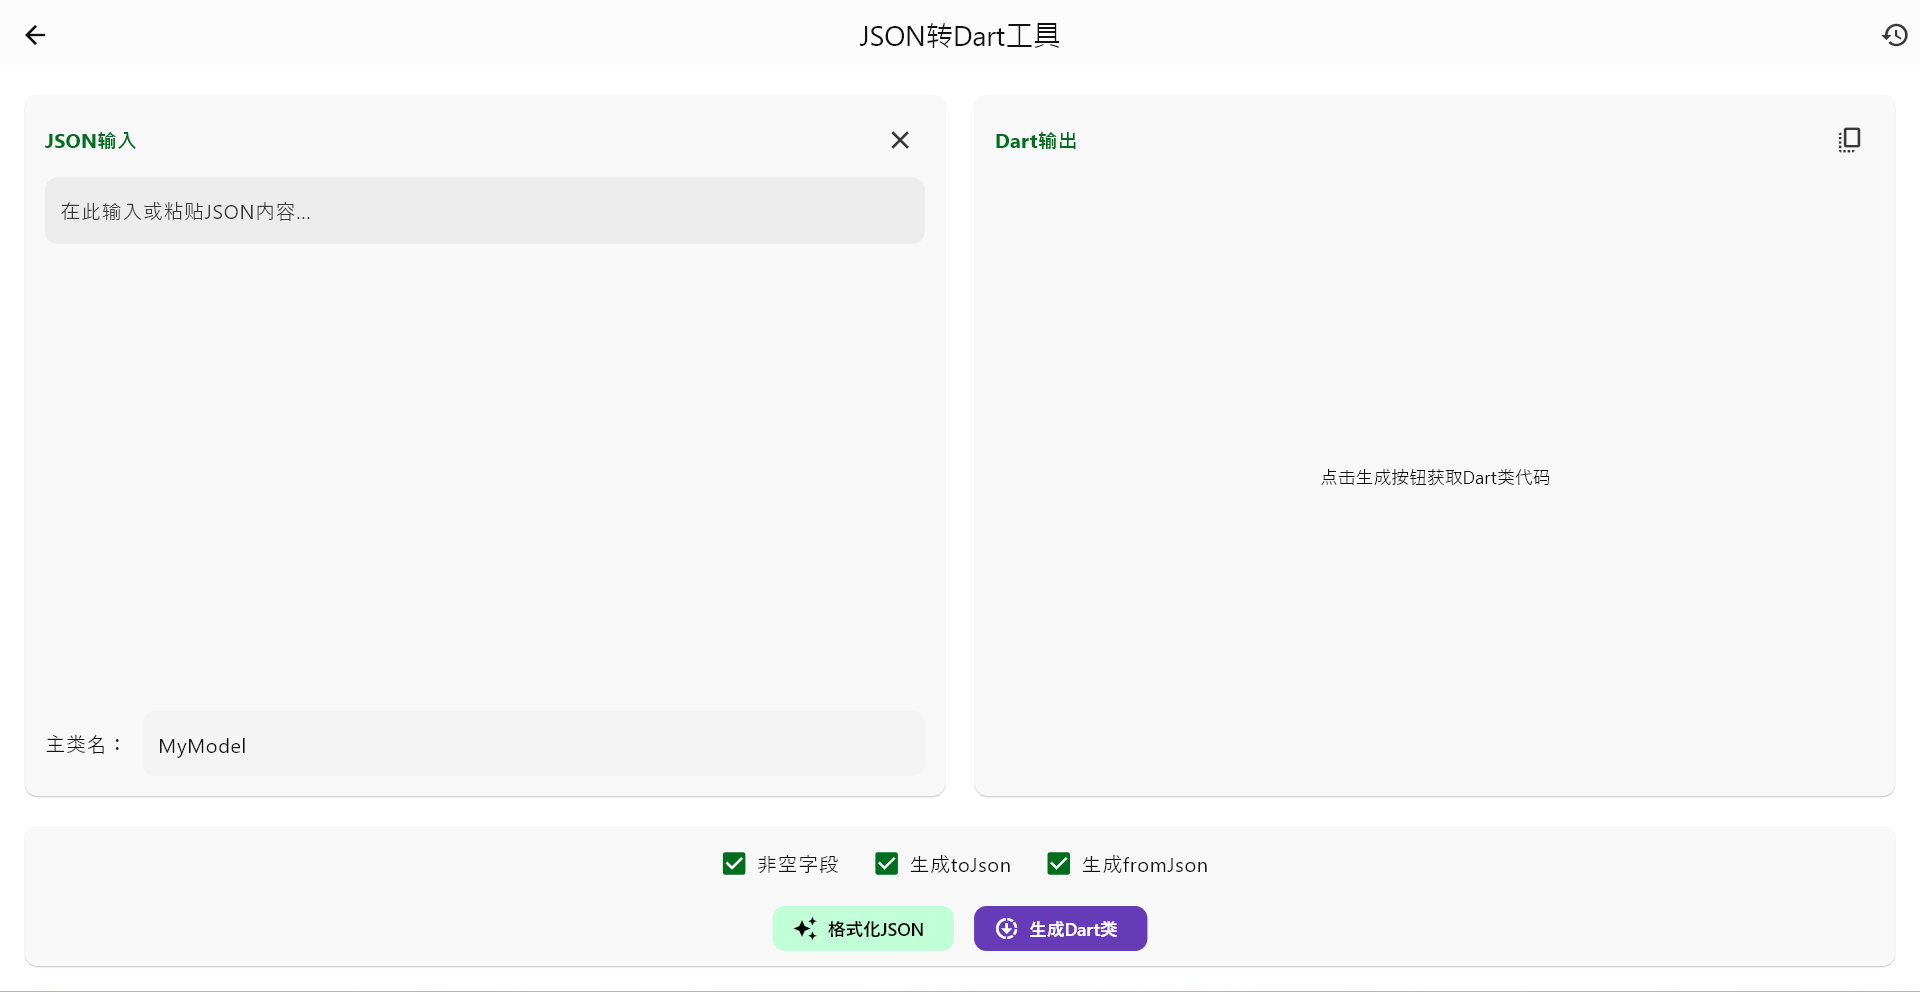
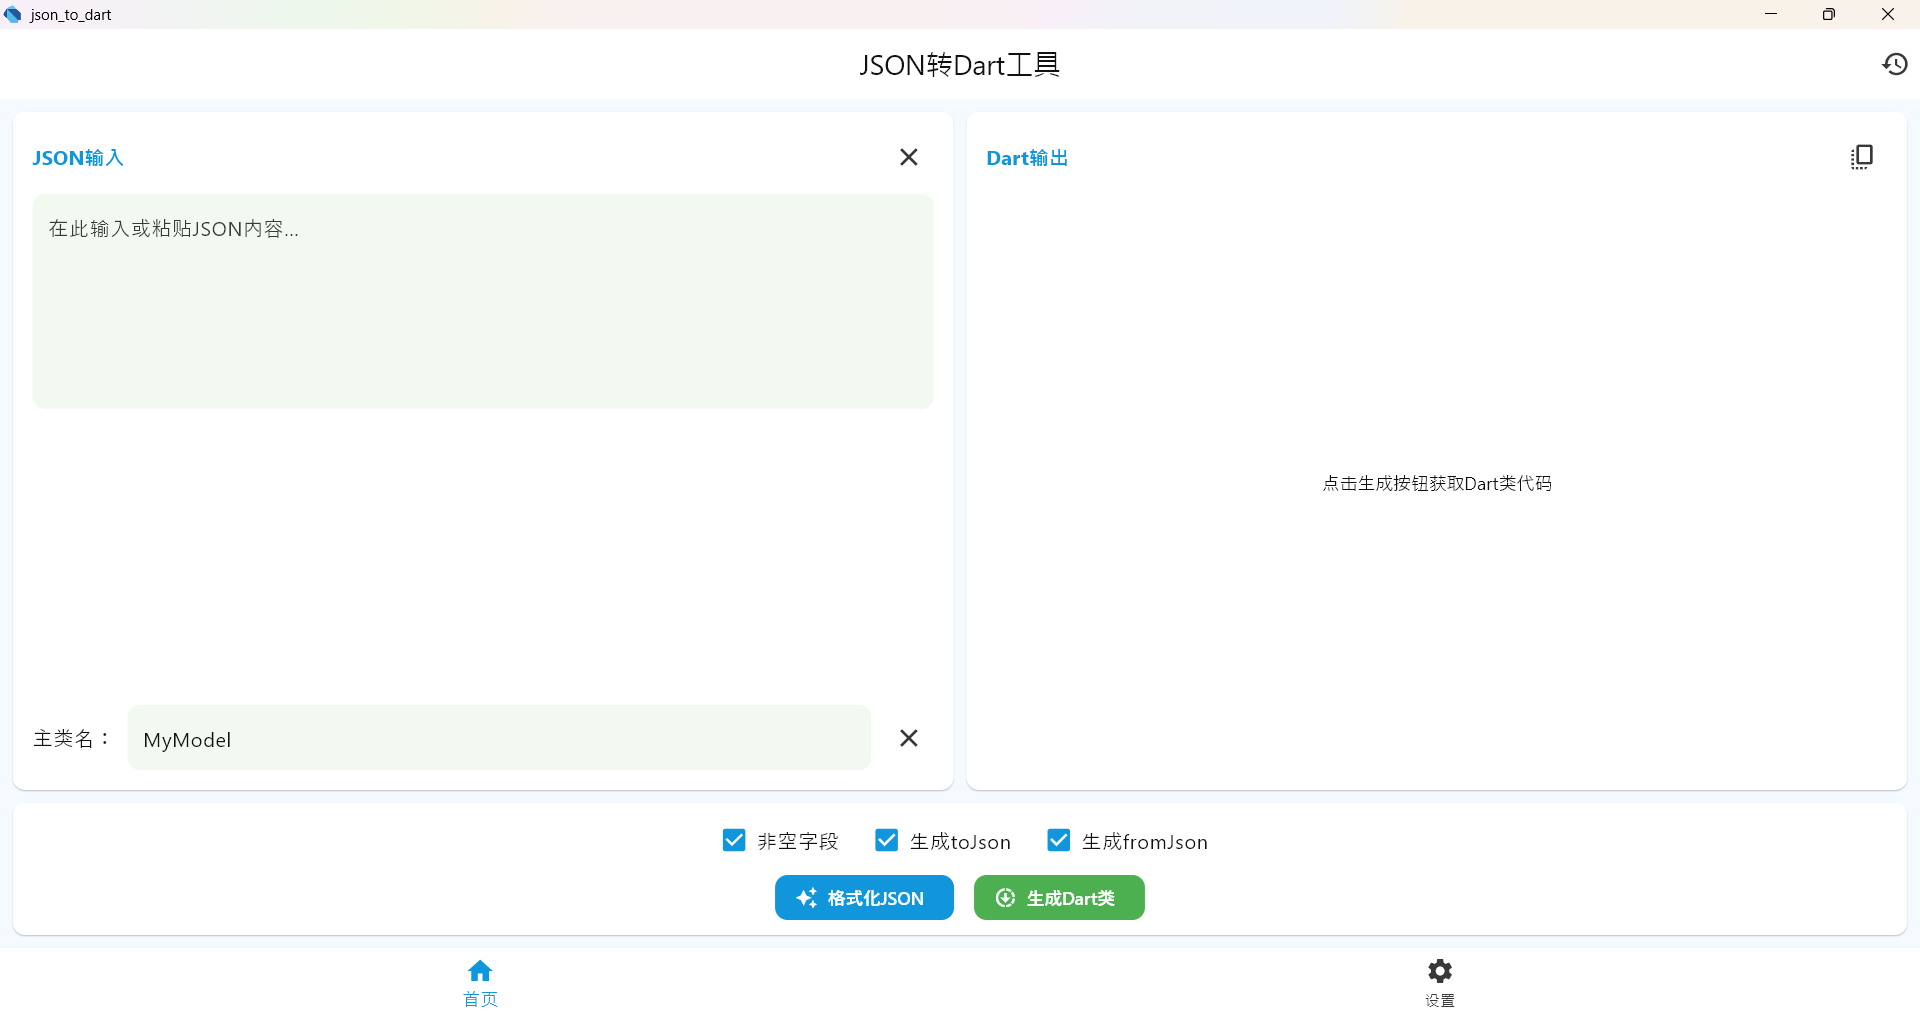
优化处理

diff --git a/lib/common/json/logic/json_to_dart_logic.dart b/lib/common/json/logic/json_to_dart_logic.dart
@@ -21,15 +21,10 @@ class JsonToDartLogic extends GetxController {
   RxBool generateFromJson = true.obs;
 
   RxString dartCode = ''.obs;
-  RxString errorMessage = ''.obs;
-
-  // 布局状态
-  final showHistoryPanel = true.obs;
-  final inputPanelRatio = 5.obs;
-  final outputPanelRatio = 5.obs;
 
   // 历史记录
   final history = <HistoryItem>[].obs;
+
   final _historyKey = 'conversion_history';
 
   late Highlighter highlighter;
@@ -37,15 +32,41 @@ class JsonToDartLogic extends GetxController {
   @override
   void onInit() async {
     super.onInit();
-    loadHistory();
-    // Load the default light theme and create a highlighter.
     var theme = await HighlighterTheme.loadLightTheme();
     highlighter = Highlighter(language: 'dart', theme: theme);
+    jsonController.addListener(jsonListener);
+    classNameController.addListener(classNameListener);
+    nonNullable.listen((newValue) => generateDartClass());
+    generateToJson.listen((newValue) => generateDartClass());
+    generateFromJson.listen((newValue) => generateDartClass());
+    loadHistory();
+  }
+
+  void jsonListener() {
+    String text = jsonController.text.trim();
+    if (text.isEmpty) {
+      dartCode('');
+      return;
+    }
+    generateDartClass();
+  }
+
+  void classNameListener() {
+    String classNameText = classNameController.text.trim();
+    if (classNameText.isEmpty) {
+      dartCode('');
+      return;
+    }
+    String jsonText = jsonController.text.trim();
+    if (jsonText.isEmpty) {
+      dartCode('');
+      return;
+    }
+    generateDartClass();
   }
 
   void generateDartClass() {
     try {
-      errorMessage.value = '';
       final jsonString = jsonController.text.trim();
       if (jsonString.isEmpty) {
         MessageUtil.showWarning(title: '操作提示 ', content: '请输入json后操作');
@@ -73,12 +94,8 @@ class JsonToDartLogic extends GetxController {
         return;
       }
       final parsedJson = json.decode(jsonController.text);
-      jsonController.text = const JsonEncoder.withIndent(
-        '  ',
-      ).convert(parsedJson);
-      errorMessage.value = '';
+      jsonController.text = const JsonEncoder.withIndent('  ').convert(parsedJson);
     } catch (e) {
-      errorMessage.value = 'Invalid JSON format';
       MessageUtil.showWarning(title: '格式化异常 ', content: '请输入正确格式的json后操作');
     }
   }
@@ -96,12 +113,7 @@ class JsonToDartLogic extends GetxController {
       final current = classStack.removeLast();
       if (classes.containsKey(current.name)) continue;
 
-      final fields = _parseFields(
-        current.data,
-        classes,
-        classStack,
-        current.name,
-      );
+      final fields = _parseFields(current.data, classes, classStack, current.name);
 
       _writeClassHeader(current.name, buffer);
       _writeClassBody(current.name, fields, buffer);
@@ -115,11 +127,7 @@ class JsonToDartLogic extends GetxController {
     buffer.writeln('class $className {');
   }
 
-  void _writeClassBody(
-    String className,
-    List<FieldInfo> fields,
-    StringBuffer buffer,
-  ) {
+  void _writeClassBody(String className, List<FieldInfo> fields, StringBuffer buffer) {
     // 字段声明
     for (final f in fields) {
       final nullability =
@@ -168,8 +176,7 @@ class JsonToDartLogic extends GetxController {
     String line;
     if (f.isCustomType) {
       if (nonNullable.value) {
-        line =
-            '${f.name}: ${f.type}.fromJson(json[\'${f.jsonKey}\'] as Map<String, dynamic>)';
+        line = '${f.name}: ${f.type}.fromJson(json[\'${f.jsonKey}\'] as Map<String, dynamic>)';
       } else {
         line =
             '${f.name}: json[\'${f.jsonKey}\'] != null ? ${f.type}.fromJson(json[\'${f.jsonKey}\'] as Map<String, dynamic>) : null';
@@ -233,13 +240,7 @@ class JsonToDartLogic extends GetxController {
     return data.entries.map((entry) {
       final jsonKey = entry.key;
       final value = entry.value;
-      final typeInfo = _resolveType(
-        value,
-        jsonKey,
-        classes,
-        classStack,
-        parentClassName,
-      );
+      final typeInfo = _resolveType(value, jsonKey, classes, classStack, parentClassName);
       final fieldName = _convertFieldName(jsonKey);
 
       return FieldInfo(
@@ -253,10 +254,7 @@ class JsonToDartLogic extends GetxController {
         isList: typeInfo.isList,
         isListOfCustomType: typeInfo.isListOfCustomType,
         isBasicListType: typeInfo.isBasicListType,
-        defaultValue:
-            nonNullable.value && typeInfo.nullable
-                ? typeInfo.defaultValue
-                : null,
+        defaultValue: nonNullable.value && typeInfo.nullable ? typeInfo.defaultValue : null,
       );
     }).toList();
   }
@@ -269,12 +267,7 @@ class JsonToDartLogic extends GetxController {
     String parentClassName,
   ) {
     if (value == null) {
-      return TypeInfo(
-        type: 'dynamic',
-        baseType: 'dynamic',
-        isDynamic: true,
-        nullable: true,
-      );
+      return TypeInfo(type: 'dynamic', baseType: 'dynamic', isDynamic: true, nullable: true);
     }
 
     if (value is Map) {
@@ -302,9 +295,7 @@ class JsonToDartLogic extends GetxController {
       final firstElement = value.first;
       if (firstElement is Map) {
         final className = '${_classNameFromKey(key, parentClassName)}Item';
-        classStack.add(
-          ClassInfo(className, firstElement.cast<String, dynamic>()),
-        );
+        classStack.add(ClassInfo(className, firstElement.cast<String, dynamic>()));
         return TypeInfo(
           type: 'List<$className>',
           baseType: 'List',
@@ -344,8 +335,7 @@ class JsonToDartLogic extends GetxController {
         .replaceAll(RegExp(r'_+'), '_'); // 确保没有连续下划线
 
     // 2. 分割下划线并过滤空片段
-    List<String> parts =
-        sanitized.split('_').where((p) => p.isNotEmpty).toList();
+    List<String> parts = sanitized.split('_').where((p) => p.isNotEmpty).toList();
 
     // 3. 处理每个片段
     List<String> processedParts =
@@ -367,8 +357,7 @@ class JsonToDartLogic extends GetxController {
         }).toList();
 
     // 4. 转换为大驼峰格式（首字母大写）
-    processedParts =
-        processedParts.map((p) => p[0].toUpperCase() + p.substring(1)).toList();
+    processedParts = processedParts.map((p) => p[0].toUpperCase() + p.substring(1)).toList();
 
     // 5. 转换为小驼峰格式（首个字母小写）
     String camelCase =
@@ -542,5 +531,14 @@ class JsonToDartLogic extends GetxController {
         await prefs.remove(_historyKey);
       },
     );
+  }
+
+  @override
+  void onClose() {
+    jsonController.removeListener(jsonListener);
+    classNameController.removeListener(classNameListener);
+    jsonController.dispose();
+    classNameController.dispose();
+    super.onClose();
   }
 }

diff --git a/lib/common/json/view/json_to_dart_view.dart b/lib/common/json/view/json_to_dart_view.dart
@@ -3,6 +3,7 @@ import 'package:flutter/material.dart';
 import 'package:flutter/services.dart';
 import 'package:get/get.dart';
 import 'package:json_to_dart/common/json/logic/json_to_dart_logic.dart';
+import 'package:json_to_dart/config/theme/app_style.dart';
 import 'package:json_to_dart/widgets/dialog/preview_dialog.dart';
 import 'package:json_to_dart/widgets/highlight/highlight_text.dart';
 
@@ -84,6 +85,7 @@ class JsonToDartView extends GetView<JsonToDartLogic> {
                   minLines: 6,
                   maxLines: null,
                   keyboardType: TextInputType.multiline,
+                  style: AppStyle.codeTextStyle,
                   decoration: InputDecoration(hintText: '在此输入或粘贴JSON内容...'),
                 ),
               ),
@@ -228,6 +230,7 @@ class JsonToDartView extends GetView<JsonToDartLogic> {
         Expanded(
           child: TextField(
             controller: controller.classNameController,
+            style: AppStyle.codeTextStyle,
             decoration: InputDecoration(hintText: '请输入主类名'),
           ),
         ),

diff --git a/lib/widgets/highlight/highlight_text.dart b/lib/widgets/highlight/highlight_text.dart
@@ -1,4 +1,5 @@
 import 'package:flutter/material.dart';
+import 'package:json_to_dart/config/theme/app_style.dart';
 import 'package:syntax_highlight/syntax_highlight.dart';
 
 class HighlightText extends StatelessWidget {
@@ -11,10 +12,7 @@ class HighlightText extends StatelessWidget {
   @override
   Widget build(BuildContext context) {
     return SelectionArea(
-      child: Text.rich(
-        highlighter.highlight(codeText),
-        style: TextStyle(fontFamily: "JetBrainsMono", fontSize: 16, height: 1.2),
-      ),
+      child: Text.rich(highlighter.highlight(codeText), style: AppStyle.codeTextStyle),
     );
   }
 }

diff --git a/lib/config/theme/app_theme.dart b/lib/config/theme/app_theme.dart
@@ -35,6 +35,7 @@ abstract final class AppTheme {
       errorContainer: Color(0xFFFFFFFF),
     ),
     lightIsWhite: true,
+    fontFamily: "JetBrainsMono",
     subThemesData: const FlexSubThemesData(
       interactionEffects: true,
       tintedDisabledControls: true,
@@ -81,6 +82,7 @@ abstract final class AppTheme {
       error: Color(0xFFFFB4AB),
       errorContainer: Color(0xFF93000A),
     ),
+    fontFamily: "JetBrainsMono",
     subThemesData: const FlexSubThemesData(
       interactionEffects: true,
       tintedDisabledControls: true,

diff --git a/lib/config/global/app_setting.dart b/lib/config/global/app_setting.dart
@@ -6,13 +6,10 @@ class AppSetting extends GetxController {
   ///软件主题
   final Rx<ThemeMode> theme = ThemeMode.system.obs;
 
-  
-
   @override
   void onInit() {
     super.onInit();
     loadThemeFormCache();
-    
   }
 
   ///更改主题方法
@@ -47,6 +44,4 @@ class AppSetting extends GetxController {
         return ThemeMode.system;
     }
   }
-
-
 }

diff --git a/lib/config/theme/app_style.dart b/lib/config/theme/app_style.dart
@@ -3,4 +3,7 @@ import 'package:flutter/material.dart';
 sealed class AppStyle {
   ///默认内边距
   static const EdgeInsets defaultPadding = EdgeInsets.all(10.0);
+
+  ///代码文字样式
+  static const TextStyle codeTextStyle = TextStyle(fontSize: 16, height: 1.2);
 }
